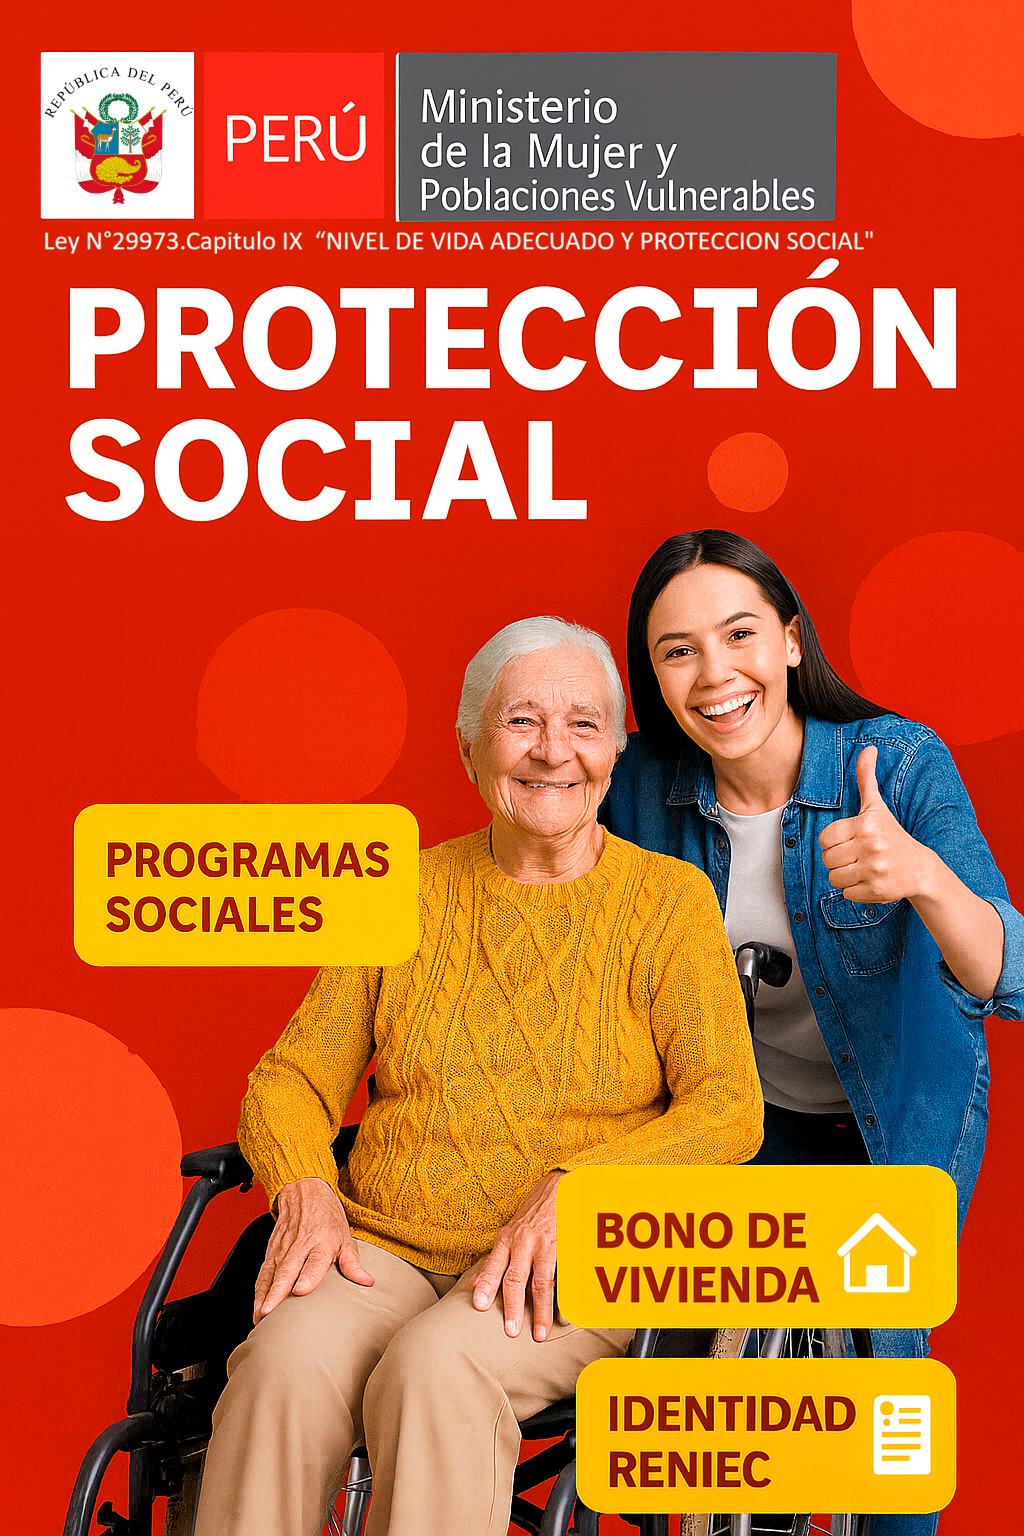
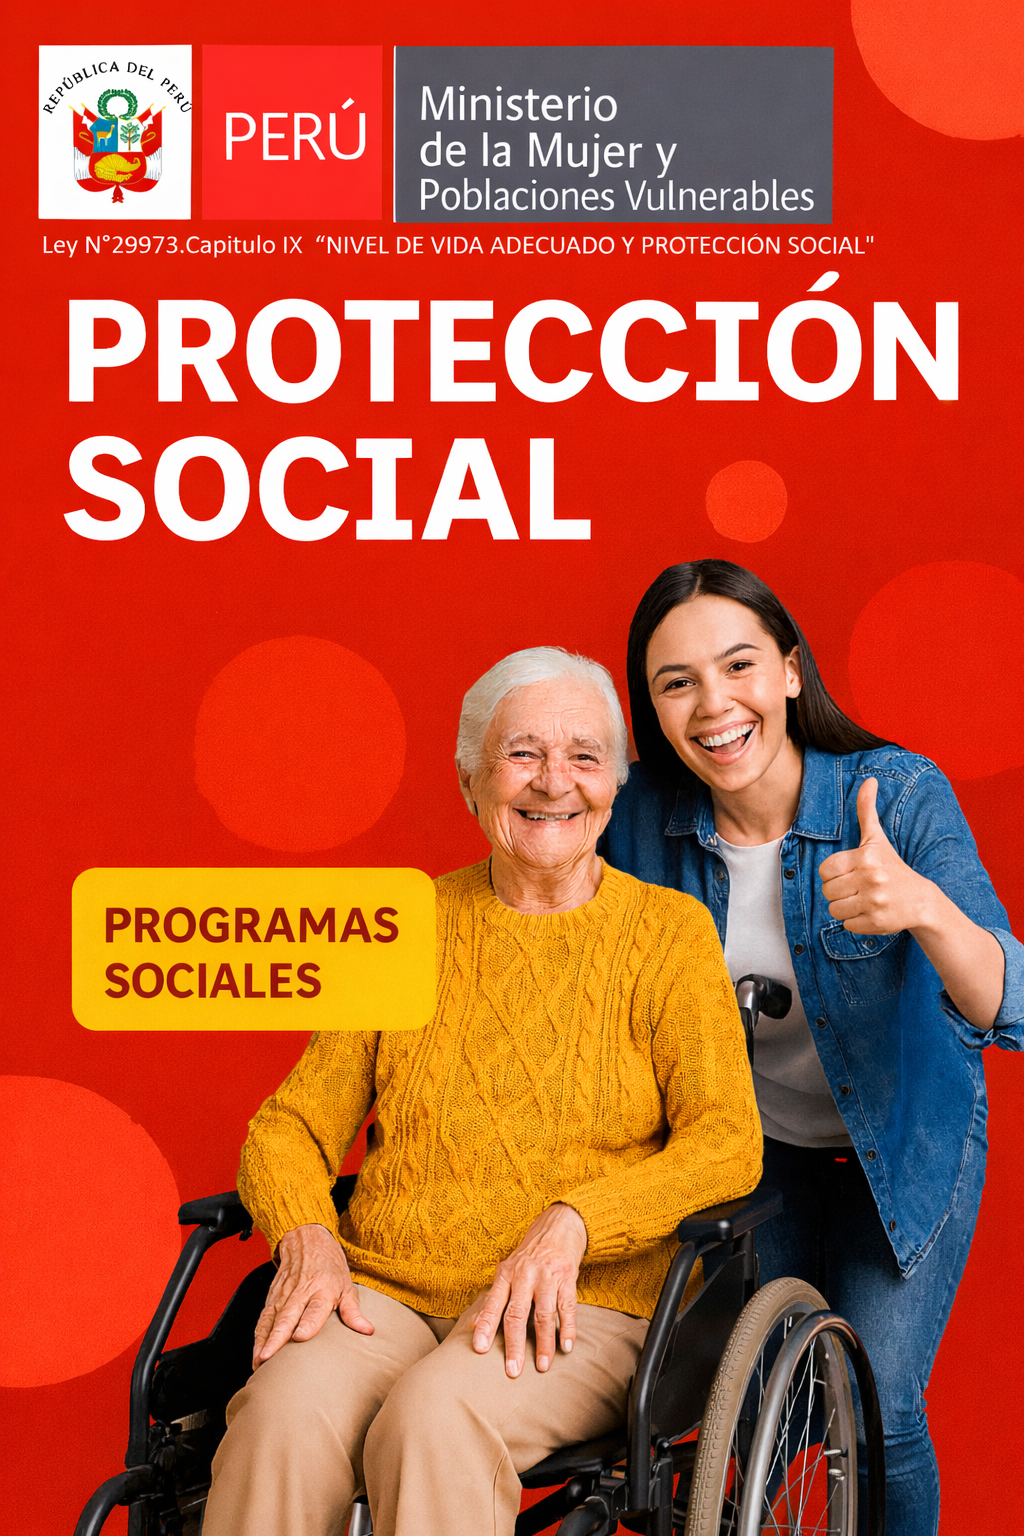
Actualizacion 20122025

diff --git a/index.html b/index.html
@@ -88,23 +88,11 @@
 			<div class="hotspot option-proteccion-programas" 
 				 data-info="<b>Programas Sociales:</b><br>Te orientamos para la afiliación y trámites de programas como Pensión Contigo y Pensión 65.">
 			</div>
-
-			<div class="hotspot option-proteccion-bono" 
-				 data-info="<b>Bono de Vivienda:</b><br>Información sobre la postulación a bonos del Estado como Techo Propio para familias con personas con discapacidad.">
-			</div>
-
-			<div class="hotspot option-proteccion-reniec" 
-				 data-info="<b>Identidad (RENIEC):</b><br>Orientación y atención para trámites de DNI (obtención, renovación, duplicado) y actualización de datos gracias a convenios interinstitucionales.">
-			</div>
 		</div>
-		
+
 		<div id="justicia-overlay" class="overlay-layer hidden">
 			<div class="hotspot option-justicia-asesoria" 
-				 data-info="<b>Asesoría Legal Gratuita:</b><br>Abogados especializados atienden casos de discriminación, violencia o vulneración de derechos.">
-			</div>
-
-			<div class="hotspot option-justicia-carnet" 
-				 data-info="<b>Carnet del CONADIS:</b><br>Orientación y gestión del carnet de discapacidad.">
+				 data-info="<b>Asesoría Legal Gratuita:</b><br>Abogados especializados orientan en casos de discriminación, violencia o vulneración de derechos.">
 			</div>
 		</div>
 

diff --git a/style.css b/style.css
@@ -75,27 +75,16 @@ body {
 
 /* Botón Izquierdo: Programas Sociales */
 .option-proteccion-programas { 
-    top: 53%; 
+    top: 56%; 
     left: 6%; 
-    width: 35%; 
-    height: 11%; 
+    width: 40%; 
+    height: 12%; 
 }
 
 /* Botón Derecho Superior: Bono de Vivienda */
-.option-proteccion-bono { 
-    top: 76%; 
-    left: 53%; 
-    width: 41%; 
-    height: 11%; 
-}
 
 /* Botón Derecho Inferior: Identidad RENIEC */
-.option-proteccion-reniec { 
-    top: 89%; 
-    left: 55%; 
-    width: 39%; 
-    height: 9%; 
-}
+
 
 /* --- POSICIONES: ACCESO A LA JUSTICIA (image_5.png) --- */
 
@@ -104,16 +93,10 @@ body {
     top: 66%; 
     left: 5%; 
     width: 42%; 
-    height: 11%; 
+    height: 12%; 
 }
 
 /* Botón Amarillo Inferior: Carnet del CONADIS */
-.option-justicia-carnet { 
-    top: 79%; 
-    left: 5%; 
-    width: 42%; 
-    height: 11%; 
-}
 
 
 /* --- VENTANA FLOTANTE (MODAL) --- */
